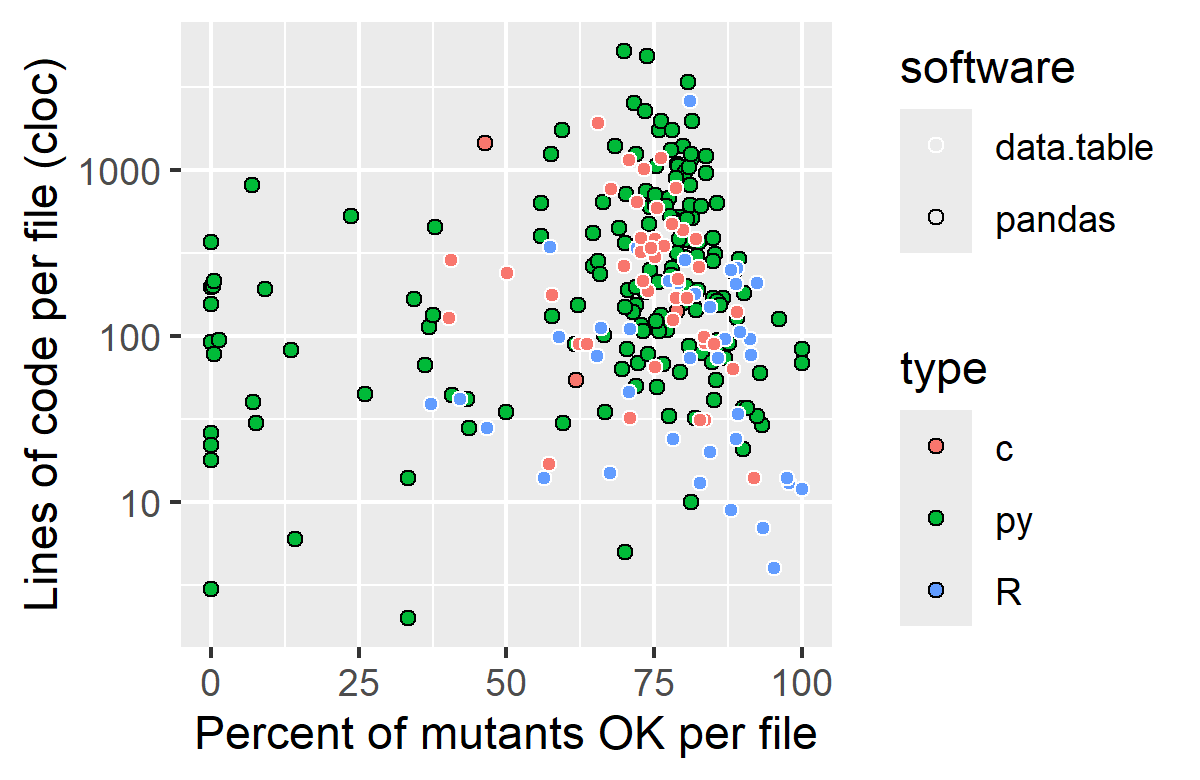
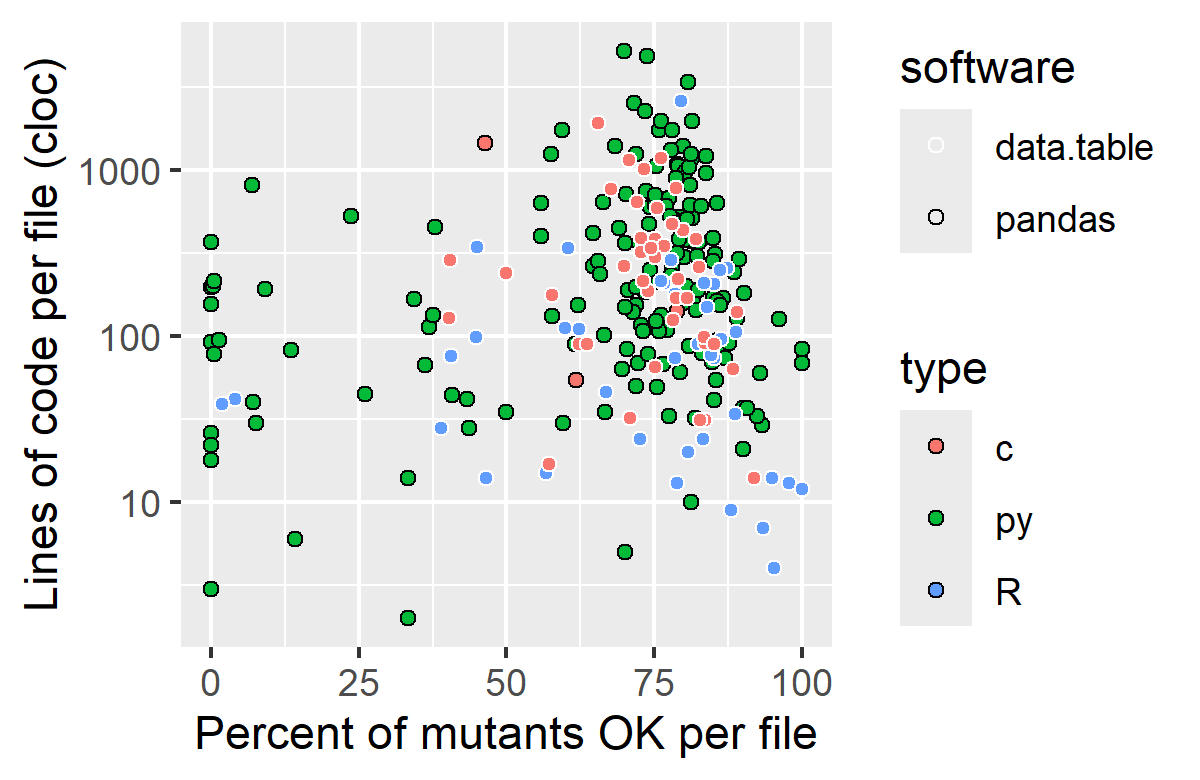
result figs

diff --git a/results-figures/table-useful-checks.tex b/results-figures/table-useful-checks.tex
@@ -1,22 +1,19 @@
 % latex table generated in R 4.4.0 by xtable 1.8-4 package
-% Thu Apr  4 16:05:28 2024
+% Thu Apr  4 16:15:44 2024
 \begin{tabular}{lr}
   \hline
 check & count \\ 
   \hline
-NOTE:R code for possible problems & 842 \\ 
-  WARNING:whether package ‘data.table’ can be installed & 577 \\ 
-  ERROR:re-building of vignette outputs & 420 \\ 
-  WARNING:for code/documentation mismatches & 213 \\ 
+ERROR:re-building of vignette outputs & 420 \\ 
   ERROR:examples & 175 \\ 
   ERROR:files in ‘vignettes’ & 171 \\ 
-  WARNING:S3 generic/method consistency & 19 \\ 
-  WARNING:replacement functions &  6 \\ 
-  NOTE:whether the namespace can be loaded with stated dependencies &  6 \\ 
-  WARNING:whether the namespace can be unloaded cleanly &  6 \\ 
-  WARNING:dependencies in R code &  5 \\ 
+  NOTE:R code for possible problems & 48 \\ 
+  WARNING:whether package ‘data.table’ can be installed & 33 \\ 
+  WARNING:for code/documentation mismatches &  5 \\ 
   NOTE:foreign function calls &  2 \\ 
+  WARNING:dependencies in R code &  2 \\ 
   NOTE:Rd $\backslash$usage sections &  1 \\ 
+  WARNING:S3 generic/method consistency &  1 \\ 
   WARNING:whether the package can be loaded with stated dependencies &  1 \\ 
    \hline
 \end{tabular}

diff --git a/results-figures/table-summary.tex b/results-figures/table-summary.tex
@@ -1,5 +1,5 @@
 % latex table generated in R 4.4.0 by xtable 1.8-4 package
-% Thu Apr  4 16:05:27 2024
+% Thu Apr  4 16:15:43 2024
 \begin{tabular}{llrrrrrrrrr}
   \hline
 Software & Type & Files & Lines & Lines/File & Mutated & M\% & Mutants/Line & Mutants & MutantsOK & MOK\% \\ 
@@ -7,8 +7,8 @@ Software & Type & Files & Lines & Lines/File & Mutated & M\% & Mutants/Line & Mu
 pandas & py & 168 & 76,069 & 452.8 & 46,089 & 60.6 & 2.9 & 132,614 & 95,962 & 72.4 \\ 
   pandas & c &  5 & 1,882 & 376.4 & 1,313 & 69.8 & 6.2 & 8,090 & 3,893 & 48.1 \\ 
   pandas & total & 173 & 77,951 & 450.6 & 47,402 & 60.8 & 3.0 & 140,704 & 99,855 & 71.0 \\ 
-  data.table & R & 40 & 6,598 & 164.9 & 6,336 & 96.0 & 5.4 & 34,146 & 26,928 & 78.9 \\ 
-  data.table & c & 43 & 14,760 & 343.3 & 12,178 & 82.5 & 7.4 & 89,920 & 65,078 & 72.4 \\ 
-  data.table & total & 83 & 21,358 & 257.3 & 18,514 & 86.7 & 6.7 & 124,066 & 92,006 & 74.2 \\ 
+  data.table & R & 40 & 6,598 & 164.9 & 6,336 & 96.0 & 5.4 & 34,146 & 25,418 & 74.4 \\ 
+  data.table & c & 43 & 14,760 & 343.3 & 12,178 & 82.5 & 7.4 & 89,920 & 65,074 & 72.4 \\ 
+  data.table & total & 83 & 21,358 & 257.3 & 18,514 & 86.7 & 6.7 & 124,066 & 90,492 & 72.9 \\ 
    \hline
 \end{tabular}
